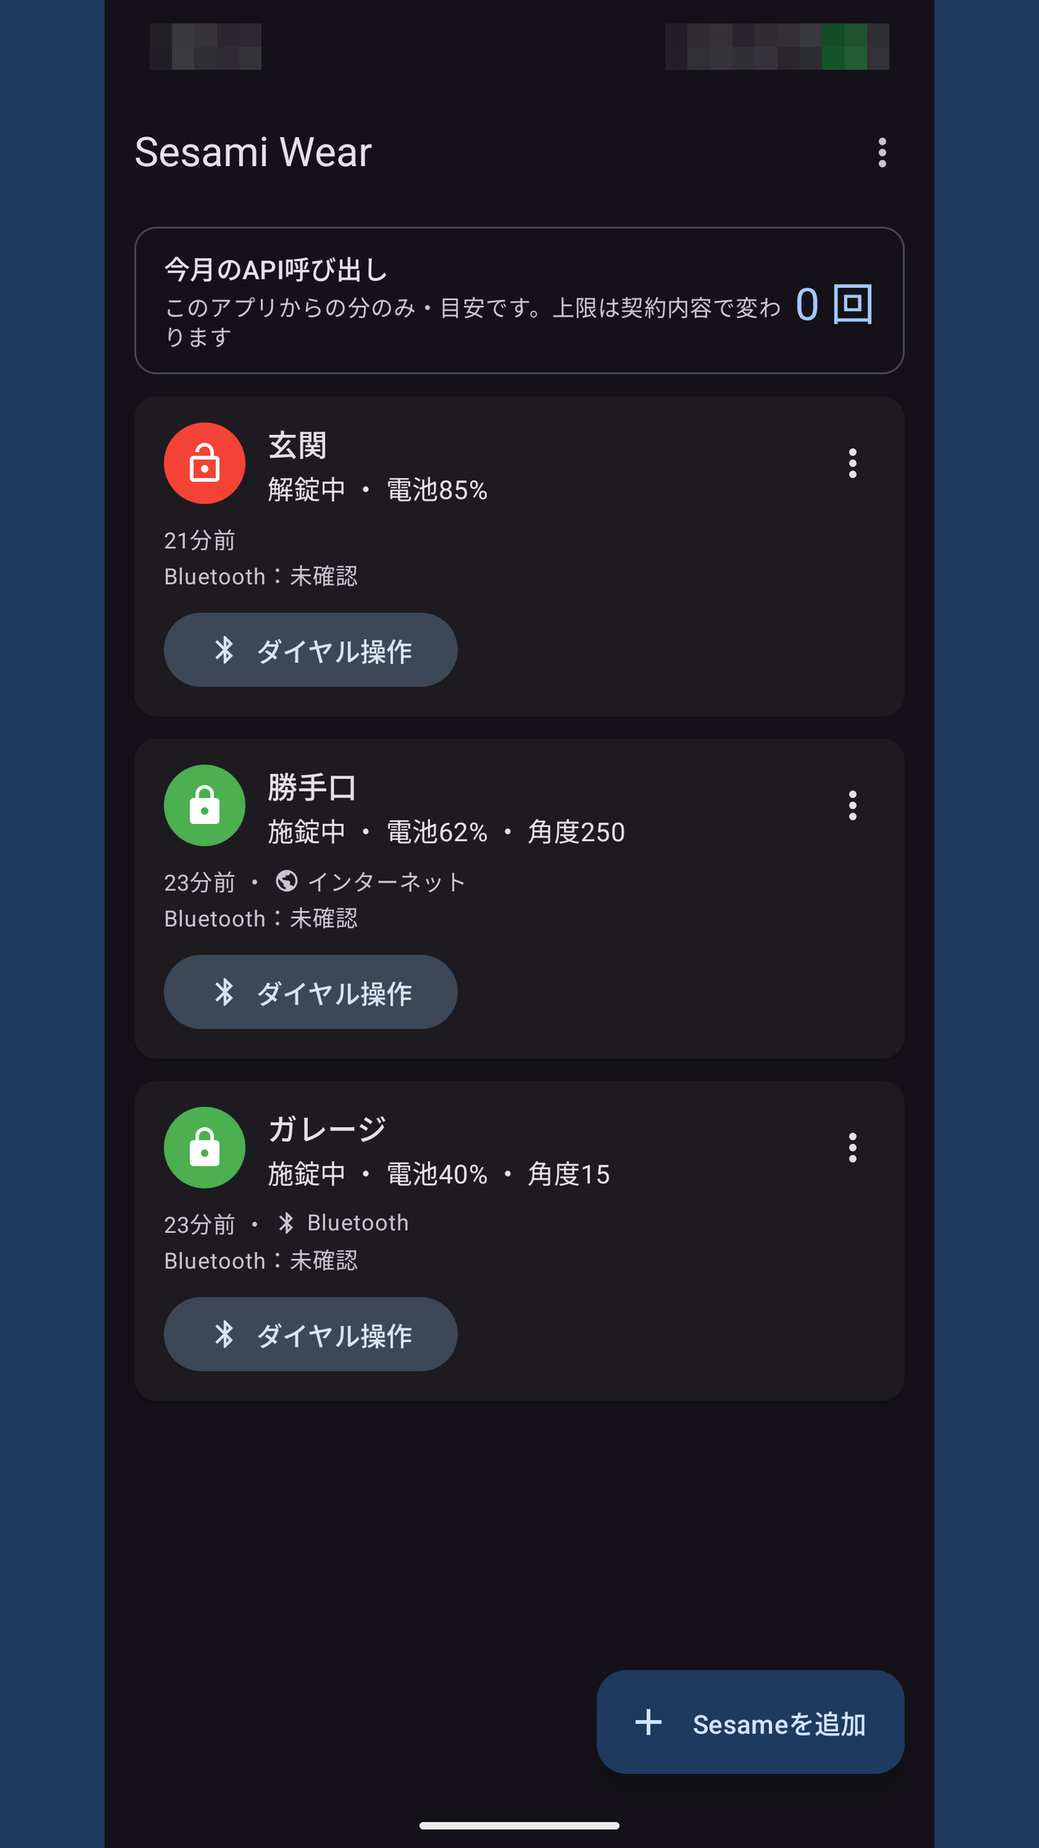
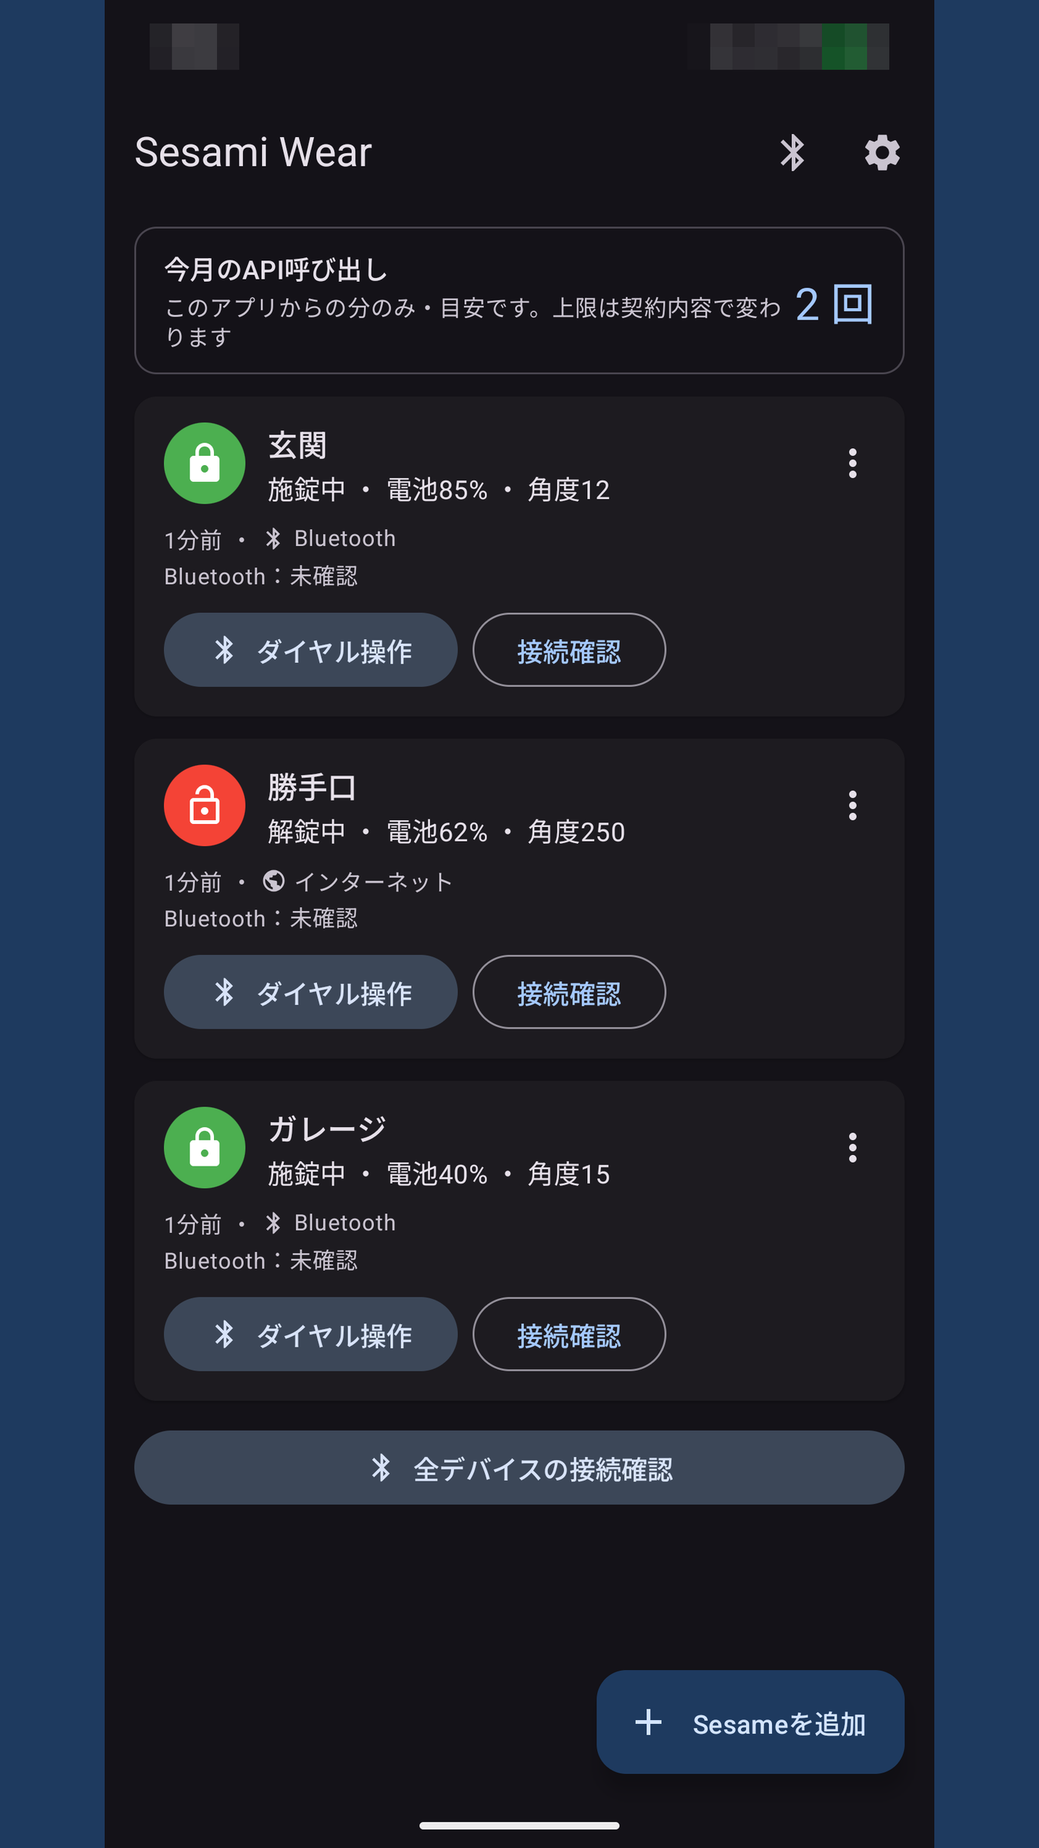
docs: 0.16.0のリリース準備と接続確認の掲載画像の追加 (BL-284 / BL-285) (#101)
* docs: 🚀 0.16.0のリリース準備と掲載スクリーンショット3点の撮り直し

対象: BL-284, BL-285

- RELEASE_NOTESの未リリースを0.16.0(2026-11-08)へ確定し、version.propertiesを
  versionCode 15 / wear 1013 / versionName 0.16.0へ更新(署名付きAAB x2ビルド済み)
- 紹介ページの版表記、USER_GUIDEの「次のバージョン以降」を0.16.0へ更新
- phone_4 / phone_5 / phone_7 を実機の撮影モードで撮り直し、紹介ページの画像と説明を追随
- BACKLOGへ配信・タグ作成(BL-285)を起票し、BL-284をPlay Consoleの差し替えのみに整理

品質ゲート: ktlint / detekt / lintDebug / 単体テスト / assembleDebug / markdownlint / 記録検証すべて成功

Claude-Session: https://claude.ai/code/session_01WnqNbaNbKwV6c5SNHH6CXg

* docs: 📸 掲載用にBluetooth接続の確認（レーダー）のスマホ画面を追加する

対象: BL-284

- phone_6_radar / phone_7_radar_all を実機の撮影モードで撮影して追加
- Google Playのスマホ用は最大8枚のため、旧 phone_6_device_edit / phone_7_help と入れ替え
- docs/store/README.md と STORE_LISTING.md の内訳を更新

品質ゲート: markdownlint / 記録検証 成功

Claude-Session: https://claude.ai/code/session_01WnqNbaNbKwV6c5SNHH6CXg

* docs: 📸 掲載用にWear OSの接続確認（レーダー）の画面を追加する

対象: BL-284

- wear_7_radar / wear_8_radar_all をPixel Watch 2実機の撮影モードで撮影して追加
- docs/store/README.md・STORE_LISTING.md・CHANGELOG.md・BACKLOG.md を更新

品質ゲート: markdownlint / 記録検証 成功

Claude-Session: https://claude.ai/code/session_01WnqNbaNbKwV6c5SNHH6CXg

* docs: 📸 Wear OSの接続確認に「接続OK」の画面を追加する

対象: BL-284

- wear_8_radar_connected を追加し、全デバイスの画像を wear_9_radar_all へ繰り下げ
- 掲載画像の内訳（Wear OS用9枚）とBACKLOG・CHANGELOGを更新

品質ゲート: markdownlint / 記録検証 成功

Claude-Session: https://claude.ai/code/session_01WnqNbaNbKwV6c5SNHH6CXg

---------

diff --git a/site/index.html b/site/index.html
@@ -57,7 +57,7 @@
             <a class="button primary" href="https://github.com/filderschoice/sesami-wear/blob/main/docs/CLOSED_TEST.md">クローズドテストに参加</a>
             <a class="button" href="https://github.com/filderschoice/sesami-wear">ソースコード</a>
           </div>
-          <p class="meta">v0.15.1 ・ Android 8.0 以上 ・ Wear OS 3 以上（任意） ・ MIT License ・ 広告なし</p>
+          <p class="meta">v0.16.0 ・ Android 8.0 以上 ・ Wear OS 3 以上（任意） ・ MIT License ・ 広告なし</p>
         </div>
         <div class="hero-visual">
           <img src="assets/phone-widget.png" alt="スマートフォンのホーム画面に置いた Sesami Wear の大小2つのウィジェット。全デバイスが施錠中の状態と取得日時、更新・変更のボタンが表示されている（壁紙とステータスバーはぼかし加工）" width="450" height="800">
@@ -215,7 +215,7 @@
         <p class="section-lead">Pixel 8 Pro での表示です（0.14.3。個人情報の写る部分は加工しています）。</p>
         <ul class="features">
           <li class="card">
-            <img class="phone" src="assets/phone-4-device-list.png" alt="アプリのデバイス一覧。玄関・勝手口・ガレージの3台が、施錠状態・電池残量・経路とともに並ぶ" width="450" height="800" loading="lazy">
+            <img class="phone" src="assets/phone-4-device-list.png" alt="アプリのデバイス一覧。玄関・勝手口・ガレージの3台が、施錠状態・電池残量・経路とともに並び、右上のBluetoothアイコンと各カードの接続確認から接続を確かめられる" width="450" height="800" loading="lazy">
             <h3>デバイス一覧</h3>
             <p>状態・電池残量・操作した経路を、デバイスごとに確認できます。</p>
           </li>
@@ -230,12 +230,12 @@
             <p>3 点を入力するだけ。端末内に暗号化して保存します（画面の値はダミー）。</p>
           </li>
           <li class="card">
-            <img class="phone" src="assets/phone-5-menu.png" alt="アプリのメニュー。操作の経路、通知、ヘルプ、操作履歴（診断ログ）の項目が並ぶ" width="450" height="800" loading="lazy">
+            <img class="phone" src="assets/phone-5-menu.png" alt="アプリの設定画面。接続（操作の経路・Bluetoothで直接操作）、通知、ホーム画面、サポート（ヘルプ・操作履歴）の項目が並ぶ" width="450" height="800" loading="lazy">
             <h3>設定メニュー</h3>
             <p>経路の優先順位や通知、操作履歴（診断ログ）をここから設定します。</p>
           </li>
           <li class="card">
-            <img class="phone" src="assets/phone-7-help.png" alt="アプリ内ヘルプ。値の取得方法やデモで試す方法などの項目が一覧になっている" width="450" height="800" loading="lazy">
+            <img class="phone" src="assets/phone-7-help.png" alt="アプリ内ヘルプ。値の取得方法やデモで試す方法、Bluetooth接続の確認（レーダー）などの項目が一覧になっている" width="450" height="800" loading="lazy">
             <h3>アプリ内ヘルプ</h3>
             <p>値の取得方法やデモの使い方を、アプリの中で確認できます。</p>
           </li>

diff --git a/docs/store/README.md b/docs/store/README.md
@@ -11,7 +11,7 @@ Google Play Console へ提出する掲載情報を、このディレクトリで
 | [PRIVACY_POLICY.md](PRIVACY_POLICY.md) | 収集する情報・保存方法・送信先・削除方法 | プライバシーポリシーURL、データ安全性の申告根拠 |
 | [images/play_store_icon_512.png](images/play_store_icon_512.png) | 512x512 PNG（アルファチャンネルなし） | アプリアイコン |
 | [images/play_feature_graphic_1024x500.png](images/play_feature_graphic_1024x500.png) | 1024x500 24bit PNG（アルファなし） | 機能グラフィック |
-| [images/screenshots/](images/screenshots/) | スマートフォン用6枚・Wear OS用6枚 | スクリーンショット |
+| [images/screenshots/](images/screenshots/) | スマートフォン用8枚・Wear OS用9枚 | スクリーンショット |
 
 `images/screenshots/` の内訳は次のとおりです。ファイル名の接頭辞がPlay Consoleの投入先の枠に
 対応します（スマートフォン用とWear OS用は別の枠です）。
@@ -21,10 +21,10 @@ Google Play Console へ提出する掲載情報を、このディレクトリで
 | `phone_1_widget_locked.png` | ホーム画面ウィジェット（全施錠中、タップで全解錠）。2x1と4x2を並べて表示。取得時刻は日時表示。アプリのウィジェット一覧のプレビュー画像の元でもある（差し替えたら `scripts/make-widget-previews.py` で作り直す） | 1350x2400 |
 | `phone_2_widget_unlock_confirm.png` | ウィジェットからの解錠確認ダイアログ（全デバイス） | 1350x2400 |
 | `phone_3_widget_unlocked.png` | ホーム画面ウィジェット。2x1は1台（玄関、解錠中）、4x2は全デバイス（一部解錠、タップで全施錠） | 1350x2400 |
-| `phone_4_device_list.png` | アプリ主画面（Sesameごとのカード。状態バッジ・電池・角度・最終取得時刻・経路・Bluetoothの到達状況・ダイヤル操作の入口・API呼び出し回数） | 1350x2400 |
-| `phone_5_menu.png` | 右上の「⋮」メニュー（操作の経路・Bluetoothで直接操作・経路の通知・お知らせ・ヘルプ・操作履歴（診断ログ）） | 1350x2400 |
-| `phone_6_device_edit.png` | Sesameの追加・編集画面（表示名・uuid・apikey・secretKey。値はダミー） | 1350x2400 |
-| `phone_7_help.png` | ヘルプのメニュー（値の取得方法・APIの上限・デモ・ウォッチ・ウィジェット・Bluetooth・モバイル回線） | 1350x2400 |
+| `phone_4_device_list.png` | アプリ主画面（Sesameごとのカード。状態バッジ・電池・角度・最終取得時刻・経路・Bluetoothの到達状況・ダイヤル操作の入口・API呼び出し回数。右上のBluetoothアイコンと、一覧末尾の「全デバイスの接続確認」・各カードの「接続確認」を含む） | 1350x2400 |
+| `phone_5_menu.png` | 右上の歯車「⚙」から開く設定画面（接続＝操作の経路・Bluetoothで直接操作／通知／ホーム画面＝ウィジェットを追加／サポート＝ヘルプ・操作履歴（診断ログ）） | 1350x2400 |
+| `phone_6_radar.png` | Bluetooth接続の確認（レーダー）。Sesameの電波を輪の上に示し、距離の目安・電波強度と、「接続を試す」の成功（電池残量・角度）、接続の保持を表示 | 1350x2400 |
+| `phone_7_radar_all.png` | 全デバイスの接続確認（1枚のレーダーに全台。台ごとの段階・距離・ダイヤル操作への入口。「全台の接続を試す」） | 1350x2400 |
 | `phone_8_dial.png` | ダイヤル操作（Bluetoothで直接操作。サムターンの角度を針で表示し、半周なぞって施錠・解錠） | 1350x2400 |
 | `wear_1_complication.png` | ウォッチフェイスのコンプリケーション（施錠状態の表示） | 384x384 |
 | `wear_2_tile_locked.png` | タイル（全施錠中、タップで全解錠） | 384x384 |
@@ -32,7 +32,18 @@ Google Play Console へ提出する掲載情報を、このディレクトリで
 | `wear_4_tile_mixed.png` | タイル（一部解錠、タップで全施錠）。複数デバイスの状態が混在した場合 | 384x384 |
 | `wear_5_unlock_confirm.png` | 解錠時の確認画面（キャンセル／全解錠） | 384x384 |
 | `wear_6_device_select.png` | 操作対象デバイスの選択画面 | 384x384 |
+| `wear_7_radar.png` | 接続確認（レーダー）。Sesameの電波を輪の上に示し、段階（発見）と距離の目安（約2m）を表示 | 384x384 |
+| `wear_8_radar_connected.png` | 「接続を試す」に成功した接続確認（接続OK・電池残量・角度） | 384x384 |
+| `wear_9_radar_all.png` | 全デバイスの接続確認（台ごとの名前・段階・距離の一覧） | 384x384 |
 
+- 2026-11-08に、設定画面の再編・接続確認の追加に合わせて `phone_4_device_list` / `phone_5_menu` の2点を
+  Pixel 8 Pro実機（ダークテーマ・撮影モードの見本の3台・「目印を10分隠す」）で撮り直しました（BL-284）。
+  アプリ内の画面のためステータスバーだけをモザイクにしています。Google Playのスマートフォン用は最大8枚のため、
+  同じ日に補助画面の `phone_6_device_edit`（追加・編集画面）と `phone_7_help`（ヘルプ）を外し、
+  Bluetooth接続の確認（レーダー）の `phone_6_radar` / `phone_7_radar_all` に入れ替えました
+  （撮影モードはBluetoothを使わず見本の電波を出すため、実機のSesameは要りません）。Wear OS用にも
+  `wear_7_radar` / `wear_8_radar_connected` / `wear_9_radar_all` を追加しました（Pixel Watch 2実機・同じ撮影モード。ウォッチの画面は
+  実機の状態が写らないため加工していません。「接続を試す」の成功後の画面は、スマートフォンの画面を点けたまま撮る必要があります）。
 - スマートフォン用の `phone_1`〜`phone_8` は、2026-10-17にPixel 8 Pro実機（ダークテーマ）で撮り直しました
   （0.14.3。ウィジェットの日時表示・UIのモダン化・「操作履歴（診断ログ）」への改名・ダイヤル操作の追加、
   BL-236 / BL-237 / BL-243 / BL-245 を反映。BL-250）。デバッグ版の撮影モード（README.md「撮影モード（デバッグ版のみ）」）

diff --git a/docs/records/managed/BACKLOG.md b/docs/records/managed/BACKLOG.md
@@ -5,25 +5,43 @@
 
 <!-- COPILOT_RECORDS:BEGIN -->
 ```yaml
-- id: BL-284
+- id: BL-285
   区分: 人手検証
   タスク内容: >-
-    スマートフォンの設定を歯車から開く設定画面へ再編した（2026-11-08）ため、掲載用スクリーンショットのうち
-    旧UIのものを撮り直す。対象は docs/store/images/screenshots/phone_5_menu.png（旧「⋮」メニュー。新しい設定画面へ）、
-    phone_7_help.png（旧ヘルプのダイアログ。新しいヘルプ一覧のページへ）、phone_4_device_list.png（主画面。右上の
-    Bluetoothアイコンと一覧末尾の「全デバイスの接続確認」が入った2台の一覧へ）。撮り直したら docs/store/README.md の
-    説明と、紹介ページ（site/assets の phone-5-menu.png・phone-7-help.png・phone-4-device-list.png と site/index.html の
-    説明文）も同じ元画像から作り直す。撮影は撮影モード（README.md）で実デバイスに触れずにできる。
-    マスク加工は Skill store-screenshot-masking、Play Consoleへの差し替えはユーザーが行う。
-  優先度: P3
+    0.16.0（mobile versionCode 15 / wear versionCode 1013）を Google Play のクローズドテストへ配信する。
+    署名付きAABは作成済み（mobile/build/outputs/bundle/release/mobile-release.aab を電話・タブレット系トラックへ、
+    wear/build/outputs/bundle/release/wear-release.aab を Wear OS 専用トラックへ。両AABの署名SHA256は一致確認済み）。
+    「このリリースの新機能」欄には docs/RELEASE_NOTES.md の0.16.0「ストア掲載用の要約」を転記する。
+    実機検証（docs/verification/VERIFICATION-0.16.0.local.md）の結果を確認してから提出する。
+    両トラックで公開中になったら、リリース準備のマージコミットへ注釈付きタグ v0.16.0 を作成し GitHub Release を
+    公開する（Skill github-release-publish）。紹介ページの gh-pages 反映もこのとき行う。
+  優先度: P2
   状態: 未着手
   担当: ユーザー
   完了条件: >-
-    掲載画像3点と紹介ページの画像が新しいUIに差し替わり、docs/store/README.md と site/index.html の説明が
-    画像の内容と一致していること
+    0.16.0 が両トラックで公開中で、タグ v0.16.0 と GitHub Release が作成されていること
   根拠: >-
-    実機での撮影と、Play Consoleの画像差し替え（ブラウザ操作・外部への公開）が要るため、
-    自律ループ実行モードでは完了できない（rules/guardrails-unified.v1.md セクション12.2）。
+    Play Console の操作・git push・タグ公開はユーザー作業（rules/guardrails-unified.v1.md セクション12.2）。
+    実機検証の合否はユーザーの確認が要る。
+  依存: []
+
+- id: BL-284
+  区分: 人手検証
+  タスク内容: >-
+    設定画面の再編・接続確認の追加に合わせて、掲載用スクリーンショット3点（phone_4_device_list / phone_5_menu /
+    phone_7_help）を撮り直し済み（2026-11-08、Pixel 8 Pro実機の撮影モード。docs/store/images/screenshots/ と
+    site/assets の画像、docs/store/README.md・STORE_LISTING.md・site/index.html の説明も更新済み）。
+    あわせて接続確認（レーダー）の画像を追加済み（スマートフォン用 phone_6_radar / phone_7_radar_all は旧 phone_6_device_edit / phone_7_help と入れ替え。Wear OS用 wear_7_radar / wear_8_radar_connected / wear_9_radar_all）。
+    残りは Play Console の掲載画像の差し替えで、スマートフォン用は旧 phone_4〜phone_7 を削除して新しい画像を入れ、Wear OS用は wear_7〜wear_9 を追加する。
+    紹介ページ（site/）の反映は main へマージ後に site/README.md の手順で行う。
+  優先度: P3
+  状態: 進行中
+  担当: ユーザー
+  完了条件: >-
+    Play Console のスマートフォン用（8枚）とWear OS用（9枚）のスクリーンショットが docs/store/images/screenshots/ と一致していること
+  根拠: >-
+    Play Console の画像差し替え（ブラウザ操作・外部への公開）は自律ループ実行モードでは行えない
+    （rules/guardrails-unified.v1.md セクション12.2）。
   依存: []
 
 - id: BL-195

diff --git a/CHANGELOG.md b/CHANGELOG.md
@@ -7,6 +7,26 @@
 - コード修正1件ごとの実施記録: [docs/records/managed/EXECUTE.md](docs/records/managed/EXECUTE.md)
 - 本ファイル: 上記以外（運用ルール、ドキュメント構成、ガードレールの変更）
 
+## 2026-11-08（0.16.0のリリース準備、BL-284 / BL-285）
+
+接続確認（BL-271〜BL-283）と設定画面の再編を含む 0.16.0 を Google Play のクローズドテストへ配信するための
+準備を行いました（自律ループ実行モード）。
+
+- **[docs/RELEASE_NOTES.md](docs/RELEASE_NOTES.md)** の「未リリース」を 0.16.0（2026-11-08）へ確定しました
+  （「ストア掲載用の要約」は記載済み）。**`scripts/version.properties`** を `versionCode 15` / `wear 1013` /
+  `versionName 0.16.0` へ更新し、署名付きAAB×2をビルドしました（`scripts/release-build.bat -VersionName 0.16.0`。
+  両AABの署名SHA256は一致）。
+- **紹介ページ**（`site/app.json` / `site/index.html`）の版表記を 0.16.0 へ、**`docs/USER_GUIDE.md`** の
+  「次のバージョン以降」を「0.16.0以降」へ更新しました。
+- **掲載用スクリーンショット3点**（`phone_4_device_list` / `phone_5_menu` / `phone_7_help`）を、Pixel 8 Pro実機の
+  撮影モード（見本の3台）で撮り直しました。紹介ページの同名画像と、`docs/store/README.md`・`STORE_LISTING.md`・
+  `site/index.html` の説明も追随させました（BL-284。Play Consoleの差し替えは残件）。
+- **接続確認（レーダー）の掲載画像を追加**しました（BL-284）。スマートフォン用は `phone_6_radar` / `phone_7_radar_all`
+  （Play Consoleの上限8枚のため旧 `phone_6_device_edit` / `phone_7_help` と入れ替え）、Wear OS用は `wear_7_radar` /
+  `wear_8_radar_connected` / `wear_9_radar_all` です（いずれも実機の撮影モード）。
+- **BACKLOG.md** へ 0.16.0 の配信・タグ・GitHub Release を BL-285（ユーザー担当）として起票し、BL-284 を
+  Play Consoleの差し替えだけに絞りました。
+
 ## 2026-11-09（UIデザイン設計書を現行のUIへ追従）
 
 `docs/design/UI_DESIGN.html` を、2026-10-20版（対象コミット acdb02b）から現行のUIへ更新しました（ユーザー指示。

diff --git a/docs/store/STORE_LISTING.md b/docs/store/STORE_LISTING.md
@@ -138,13 +138,17 @@ Markdownを解釈しないため、転記時は見出し・箇条書きの記法
 
 ## スクリーンショット
 
-スマートフォン用8枚とWear OS用6枚を [images/screenshots/](images/screenshots/) に用意済みです。
+スマートフォン用8枚とWear OS用9枚を [images/screenshots/](images/screenshots/) に用意済みです。
 内訳と加工内容は [README.md](README.md)「ファイル一覧」を参照してください。
 
-- スマートフォン用: 8枚とも0.14.3の表示でPixel 8 Pro実機（デバッグ版の撮影モード）を使って撮影しています
+- スマートフォン用: `phone_4_device_list` / `phone_5_menu` は0.16.0の表示で2026-11-08に撮り直し、
+  `phone_6_radar` / `phone_7_radar_all`（Bluetooth接続の確認）を追加しました（8枚上限のため旧 `phone_6` / `phone_7` と入れ替え。
+  BL-284）。残る4枚は0.14.3の表示です。
+- スマートフォン用: 撮影はいずれも0.14.3の表示でPixel 8 Pro実機（デバッグ版の撮影モード）を使って撮影しています
   （2026-10-17。ステータスバーはモザイク、ホーム画面の3枚はドックもモザイクにし壁紙はぼかし）。
   0.14.3でダイヤル操作の画面（`phone_8_dial.png`）を加えました。
-- Wear OS用: タイル3枚とデバイス選択は0.14.0の表示でPixel Watch 2実機を使って撮影しています
+- Wear OS用: `wear_7_radar` / `wear_8_radar_connected` / `wear_9_radar_all`（接続確認）は0.16.0の表示で2026-11-08にPixel Watch 2実機で撮影しました。
+  タイル3枚とデバイス選択は0.14.0の表示でPixel Watch 2実機を使って撮影しています
   （2026-09-25）。解錠確認は表示が変わっていないため据え置き、コンプリケーションは2026-09-06撮影の
   ままです（撮影時の文字盤が手元に無いため）。
 
